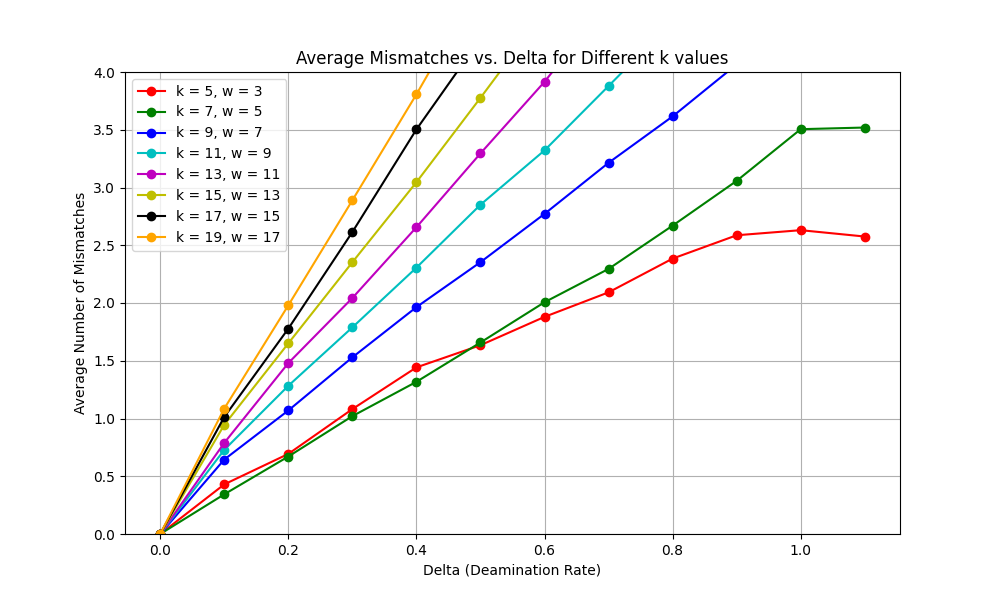
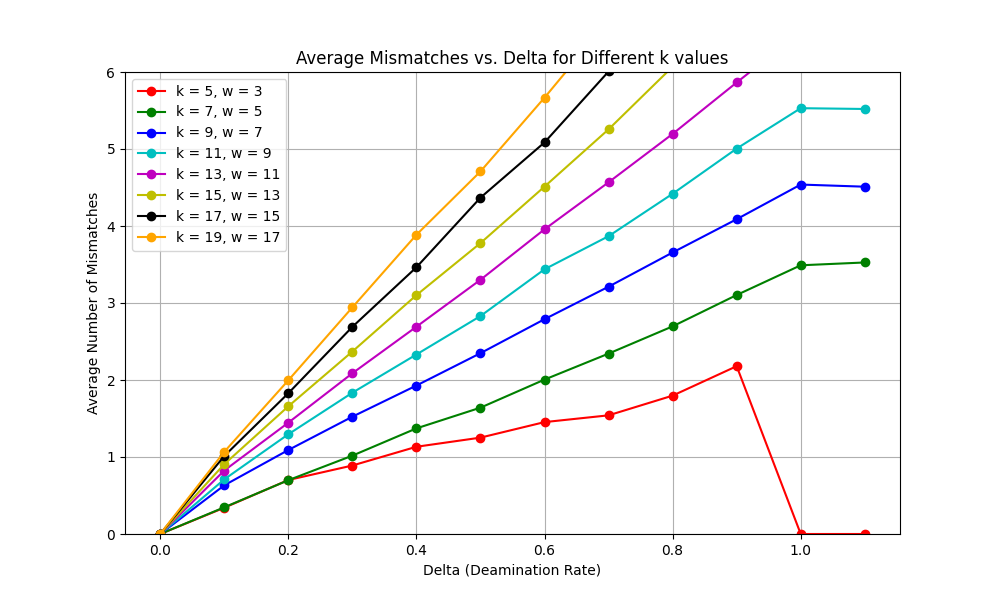
Update

diff --git a/simulations/avg_mismatch/avg.py b/simulations/avg_mismatch/avg.py
@@ -103,7 +103,7 @@ plt.xlabel('Delta (Deamination Rate)')
 plt.ylabel('Average Number of Mismatches')
 plt.title('Average Mismatches vs. Delta for Different k values')
 plt.legend()
-plt.ylim(0, 4)
+plt.ylim(0, 6)
 plt.grid(True)
 plt.savefig("avg_mismatches.png")
 plt.close()
